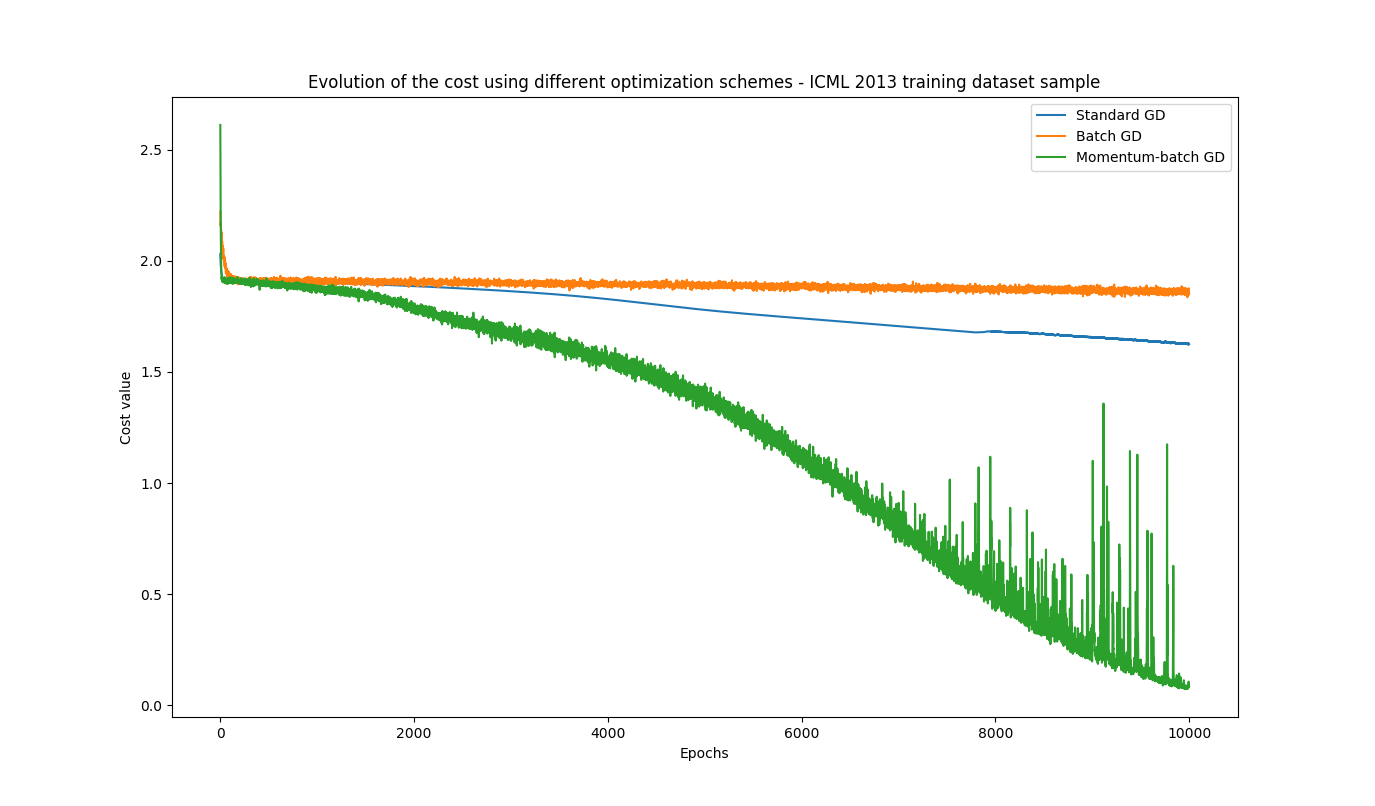
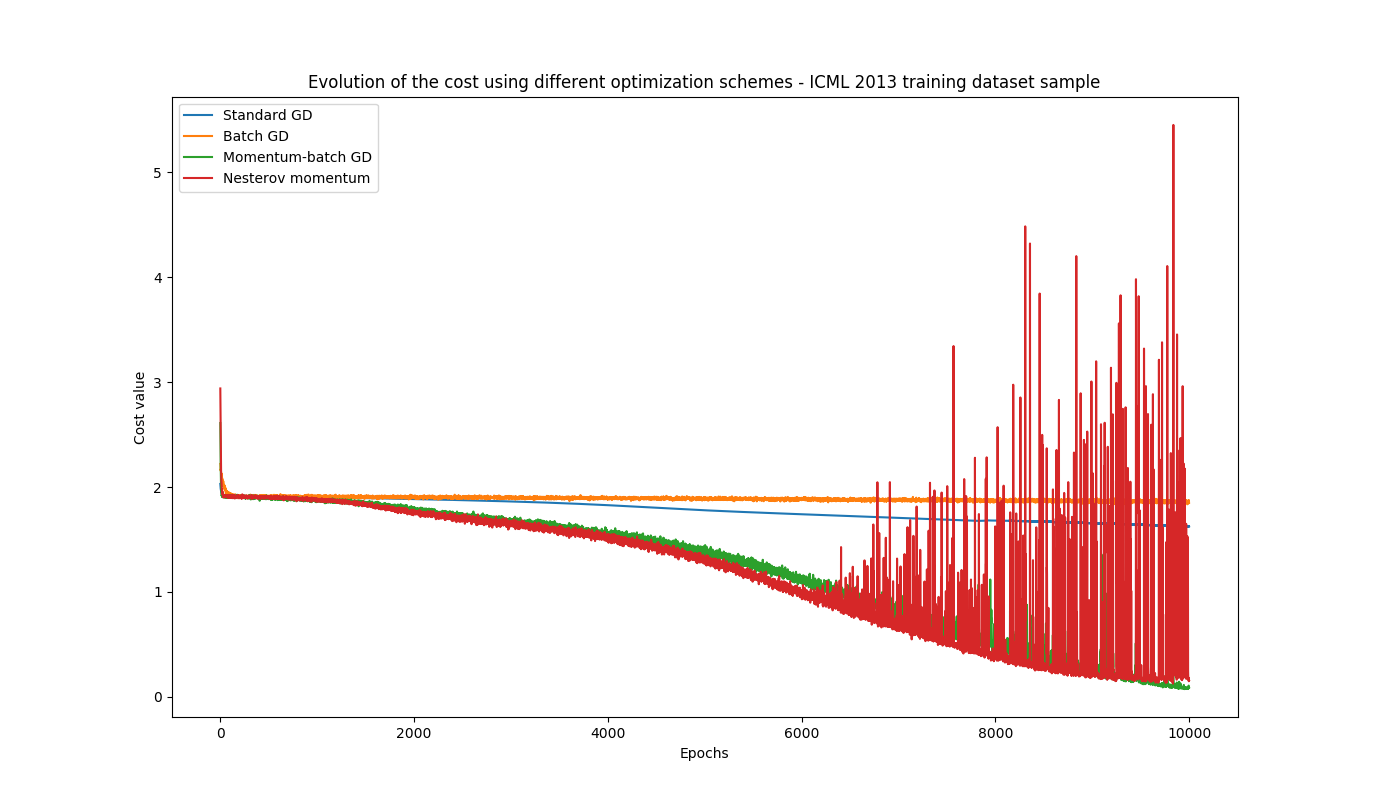
Add files via upload

diff --git a/ANN_relu_Multi_batch3.py b/ANN_relu_Multi_batch3.py
@@ -1,0 +1,161 @@
+# Nesterov momentum batch GD optimization for ANN models using 'relu' 
+# activation function for multi-class problems.
+# Implementation from scratch (mainly using Numpy).
+import numpy as np
+import matplotlib.pyplot as plt
+from  ann_functions import *
+import time
+from sklearn.utils import shuffle
+
+
+class ANN_relu(object):
+	def __init__(self, M):
+		# this assures that all hidden unities are stored in a list
+		if isinstance(M, int):
+			self.M = [M]  # in case there is a single hidden layer...
+		else:
+			self.M = M
+
+
+
+	def fit(self, X, Y, alpha=1e-6, reg=1e-4, mu=0.1, epochs=5000, 
+		show_fig=False):		
+		N, D = X.shape
+		K = len(np.unique(Y))
+
+		self.N = N  # this variable will be used for normalization
+		self.D = D  # store the dimension of the training dataset
+		# stores all hyperparameter values
+		self.hyperparameters = {'alpha':alpha, 'reg':reg, 'epochs':epochs}
+		
+
+		# creates an indicator matrix for the target
+		Trgt = np.zeros((N, K))
+		Trgt[np.arange(N), Y.astype(np.int32)] = 1
+
+
+		# creates a list with the number of hidden unities (+ input/output)
+		hdn_unties = [D] + self.M + [K]
+		self.W = []
+		self.b = []
+		self.v_W = []
+		self.v_b = []
+		# initializes all weights randomly
+		for k in range(1,len(self.M)+2):
+			W, b = init_weights(hdn_unties[k-1], hdn_unties[k])
+			self.W.append(W)
+			self.b.append(b)
+			self.v_W.append(0)
+			self.v_b.append(0)
+
+
+		Ns = 100	# number of samples / batch
+		Nbatch = 10#N/Ns  # number of batches
+		J = np.zeros(epochs) # this array stores the cost with respect to each epoch
+		start = time.time()	# <-- starts measuring the optimization time from this point on...	
+
+		for i in range(epochs):  # optimization loop
+			Xbuf, Ybuf = shuffle(X,Y)
+			for j in range(int(Nbatch)):
+				Xs = Xbuf[(j*Ns):(j*Ns+Ns),:] # input batch sample
+				Trgt_s = np.zeros((Ns,K))
+				Trgt_s[np.arange(Ns), Ybuf[(j*Ns):(j*Ns+Ns)].astype(np.int32)] = 1
+				PY = self.forward(Xs)
+				J[i] = J[i] + 1/Nbatch*cross_entropy_multi2(Trgt_s, PY)
+				self.back_prop(Trgt_s, PY, alpha, reg, mu)
+			if i % 100 == 0:
+				print('Epoch:',i,' Cost: {:.4f}'.format(J[i]), 
+					" Accuracy: {:1.4f}".format(np.mean(Y==self.predict(X))))
+
+
+		end = time.time()
+		self.elapsed_t = (end-start)/60 # total elapsed time
+		self.cost = J # stores all cost values
+		self.Ns = Ns
+		self.Nbatch = Nbatch
+
+		print('\nOptimization complete')
+		print('\nElapsed time: {:.3f} min'.format(self.elapsed_t))
+
+
+		# customized plot with the resulting cost values
+		if show_fig: 
+			plt.plot(J, label='Cost function J')
+			plt.title('Evolution of the Cost through a Momentum-batch GD optimization     Total runtime: {:.3f} min'.format(self.elapsed_t)+'    Final Accuracy: {:.3f}'.format(np.mean(Y==self.predict(X))))
+			plt.xlabel('Epochs')
+			plt.ylabel('Cost')
+			plt.legend()
+			plt.show()
+	
+
+
+
+	def forward(self, X):
+		self.Z = [X] # this list contains all hidden unities + input/output
+		for i in range(0,len(self.M)):
+			self.Z.append(forward_step_relu(self.Z[i], self.W[i], self.b[i]))
+		self.Z.append(forward_step(self.Z[len(self.M)], self.W[len(self.M)], self.b[len(self.M)]))
+		self.Z[-1] = softmax(self.Z[-1])
+		return self.Z[-1]
+
+
+
+	# updating weights using Nesterov momentum!
+	def back_prop(self, Y, PY, alpha, reg, mu):
+		dZ = PY-Y
+		Z = self.Z[:-1]
+		Wbuf = self.W
+		for i in range(1,len(self.W)+1):
+			v_Wbuf = self.v_W[-i]
+			self.v_W[-i] = mu*v_Wbuf - alpha*(Z[-i].T.dot(dZ) + reg/self.N*self.W[-i])
+			self.W[-i] += -mu*v_Wbuf + (1+mu)*self.v_W[-i]
+			v_bbuf = self.v_b[-i]
+			self.v_b[-i] = mu*v_bbuf - alpha * (dZ.sum(axis=0) + reg/self.N*self.b[-i])
+			self.b[-i] += -mu*v_bbuf + (1+mu)*self.v_b[-i]
+			dZ = dZ.dot(Wbuf[-i].T) * (Z[-i]>0)
+
+
+
+	def predict(self, X):
+		PY = self.forward(X)
+		return np.argmax(PY, axis=1)
+
+
+
+
+def main():
+# number of samples for each class
+	N_class = 5000 
+
+# generates random 2-D points 
+	X1 = np.random.randn(N_class,2)+np.array([2,2])
+	X2 = np.random.randn(N_class,2)+np.array([-2,-2])
+	X3 = np.random.randn(N_class,2)+np.array([-2,2])
+	X4 = np.random.randn(N_class,2)+np.array([2,-2])
+	X = np.vstack([X1,X2,X3,X4])
+
+# labels associated to the input
+	Y = np.array([0]*N_class+[1]*N_class+[2]*N_class+[3]*N_class)
+	# Y = np.reshape(Y, (len(Y),1))
+
+
+# scatter plot of original labeled data
+	plt.scatter(X[:,0],X[:,1],c=Y,s=50,alpha=0.5)
+	plt.show()
+
+
+# creates an ANN model with the specified 4 hidden layers
+	model = ANN_relu([10,10,10,10])
+
+# fits the model with the hyperparameters set	
+	model.fit(X, Y, alpha=1e-5, epochs=10000, reg=0, mu=.5, show_fig=True)
+	
+# computes the model accuracy	
+	Ypred = model.predict(X)
+	print('\nFinal model accuracy: {:.4f}'.format(np.mean(Y==Ypred)))
+
+
+
+
+if __name__ == '__main__':
+    main()

diff --git a/facial_expr_recognition_batch3.py b/facial_expr_recognition_batch3.py
@@ -1,0 +1,47 @@
+# Nesterov momentum batch gradient descend ANN model using a 'relu' 
+# activation function for the ICML 2013 facial recognition dataset.
+# P.S: It can take very long time to run depending if the majority of the 
+# dataset is used for training.
+import numpy as np
+import matplotlib.pyplot as plt
+from ANN_relu_Multi_batch3 import ANN_relu
+# from sklearn.utils import shuffle
+
+
+
+def main():
+    npzfile = np.load('fer_sample.npz')
+    X = npzfile['X']
+    Y = npzfile['Y']
+
+
+    print('Number of samples:',X.shape[0])
+    print('Data dimension:', X.shape[1])
+    print('Number of output classes:', len(np.unique(Y)))
+    print('\n')
+
+
+    model = ANN_relu([100,100,100,100])
+    # model = ANN_relu([200,200,200])
+    # model.fit(X, Y, learning_rate=1*10e-7, epochs=10000, reg=0, show_fig=True)
+    model.fit(X, Y, alpha=1e-6, epochs=10000, reg=1e-2, mu=0.9, show_fig=True)
+    # # print('The total score is: ', model.score(X, Y))
+    Ypred = model.predict(X)
+    print('\nFinal model accuracy: {:.4f}'.format(np.mean(Y==Ypred)))
+
+
+
+    # save the model object to a file
+    from sklearn.externals import joblib
+    joblib.dump(model, 'fer_ANN_relu_batch3.sav')
+    
+    # import pickle
+    # pickle.dump(model, open('ANN_relu.sav', 'wb'))
+
+
+
+
+
+if __name__ == '__main__':
+    main()
+

diff --git a/visualize_costs.py b/visualize_costs.py
@@ -26,6 +26,13 @@ def main():
 	cost3 = model3.cost
 
 
+	from ANN_relu_Multi_batch3 import ANN_relu
+# loades Nesterov Momentum-batch GD ANN_relu model
+	model4 = joblib.load('fer_ANN_relu_batch3.sav')
+	cost4 = model4.cost
+
+
+
 # Stochastic results are too noisy so the visualization isn't good...
 # 	from ANN_relu_Multi_SGD import ANN_relu
 # # loades Stochastic GD ANN_relu model
@@ -36,6 +43,7 @@ def main():
 	plt.plot(cost1, label='Standard GD')
 	plt.plot(cost2, label='Batch GD')
 	plt.plot(cost3, label='Momentum-batch GD')
+	plt.plot(cost4, label='Nesterov momentum')
 	# plt.plot(cost4, label='Stochastic GD')
 
 
